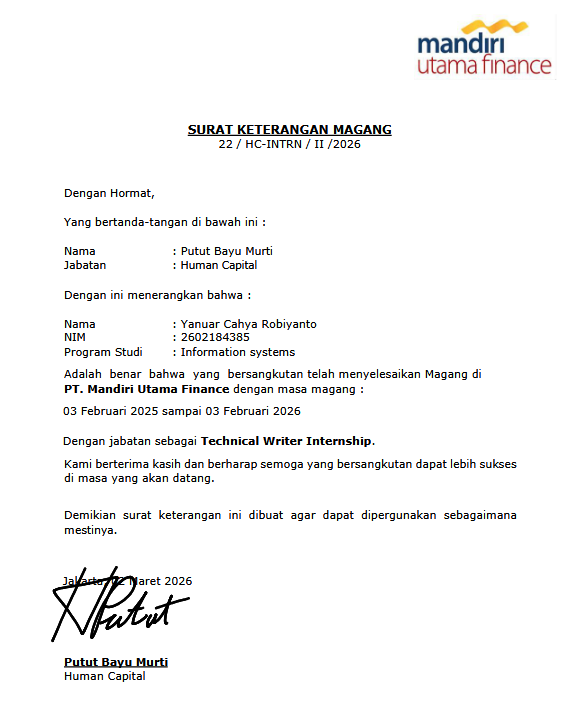
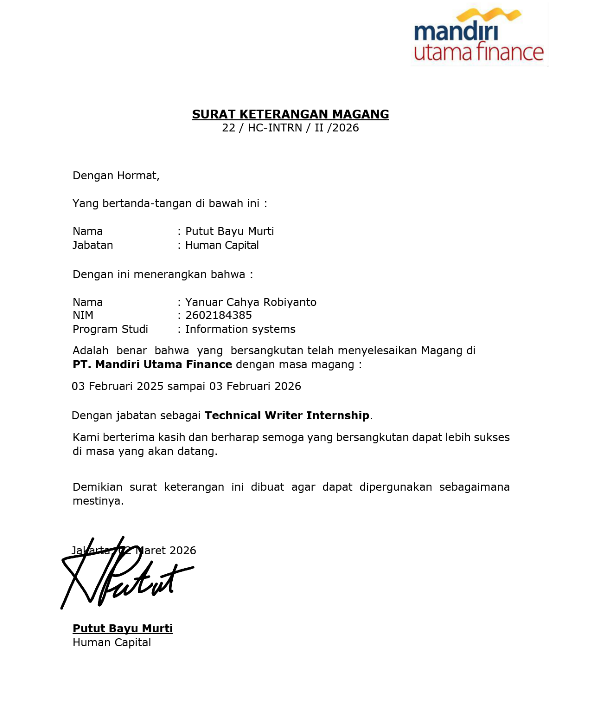
Update certificates section and fix text

diff --git a/assets/js/main.js b/assets/js/main.js
@@ -384,12 +384,12 @@ const certificates = [
 },
 {
   image: "assets/images/certificates/bgp.png",
-  name: "Token Of Appreciation BGP 2025",
+  name: "Token of Appreciation BGP 2025",
   desc: "Recognized for contributions as a promotions team member."
 },
 {
   image: "assets/images/certificates/cisco.png",
-  name: "Data Science Course Certificate",
+  name: "Data Science Course Completion Certificate",
   desc: "Completed training in data analytics and artificial intelligence fundamentals."
 },
 {
@@ -399,8 +399,8 @@ const certificates = [
 },
 {
   image: "assets/images/certificates/bela.png",
-  name: "Bela Negara National Defense Program",
-  desc: "Completed the national defense education program."
+  name: "Bela Negara National Defense Training",
+  desc: "Completed the Indonesian national defense education program."
 },
 {
   image: "assets/images/certificates/gui.png",
@@ -409,7 +409,7 @@ const certificates = [
 },
 {
   image: "assets/images/certificates/beagreat.png",
-  name: "Be A Great Seller Training",
+  name: "Be a Great Seller Training Program",
   desc: "Completed training in sales strategy and customer engagement."
 },
 {
@@ -419,7 +419,7 @@ const certificates = [
 },
 {
   image: "assets/images/certificates/pc.png",
-  name: "Persuasive Communication in Marketing",
+  name: "Persuasive Communication in Marketing Practice",
   desc: "Completed training in persuasive communication for marketing practice."
 }
 ];
